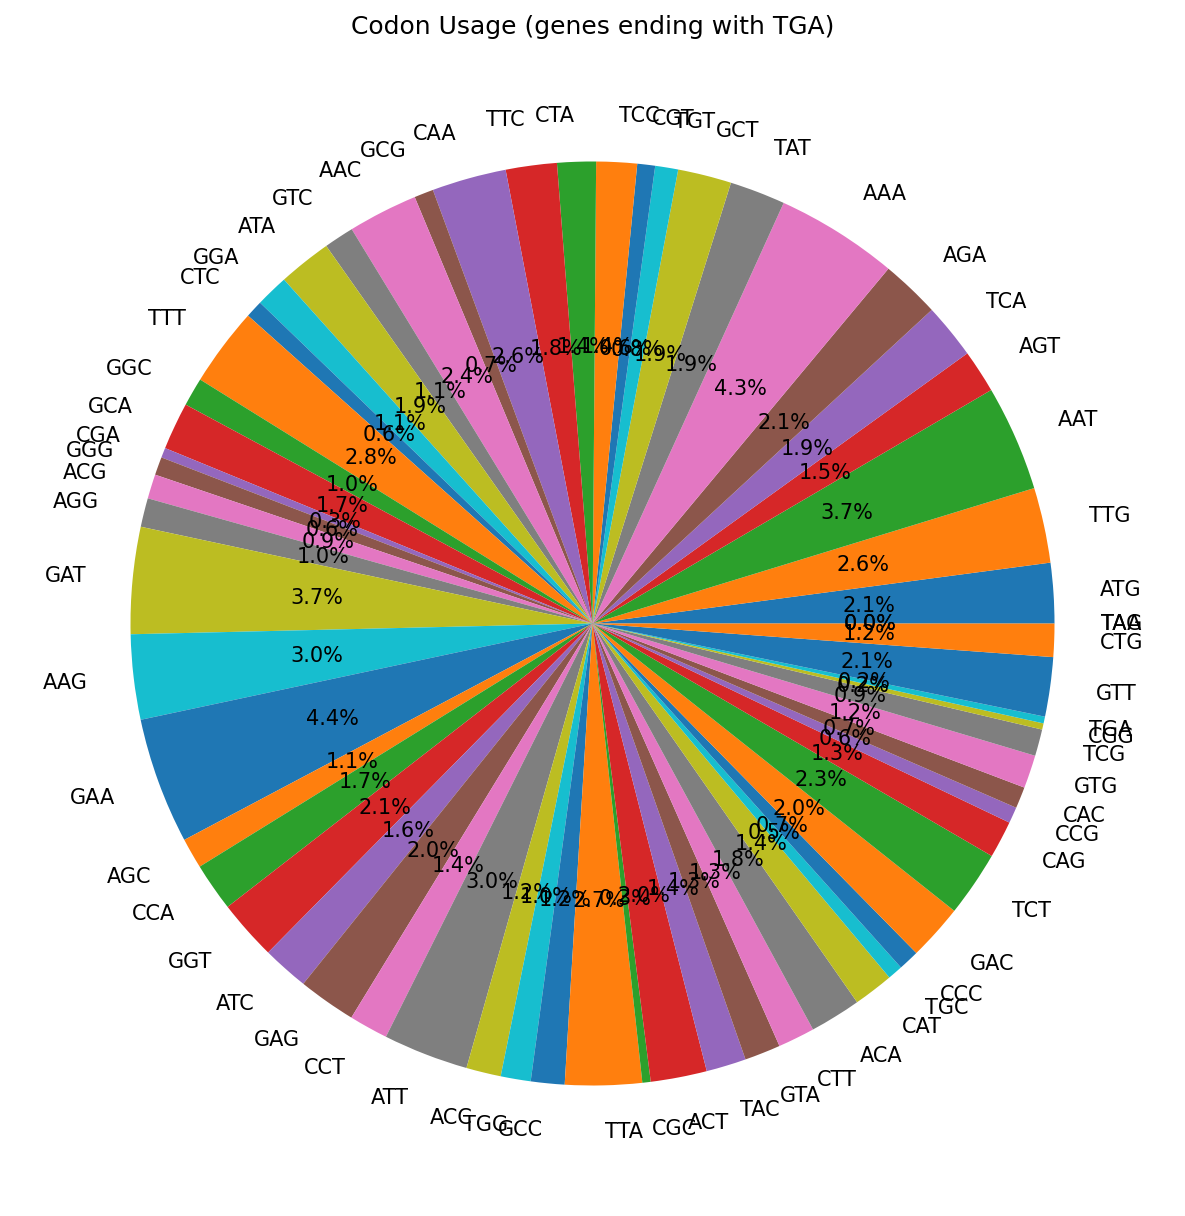
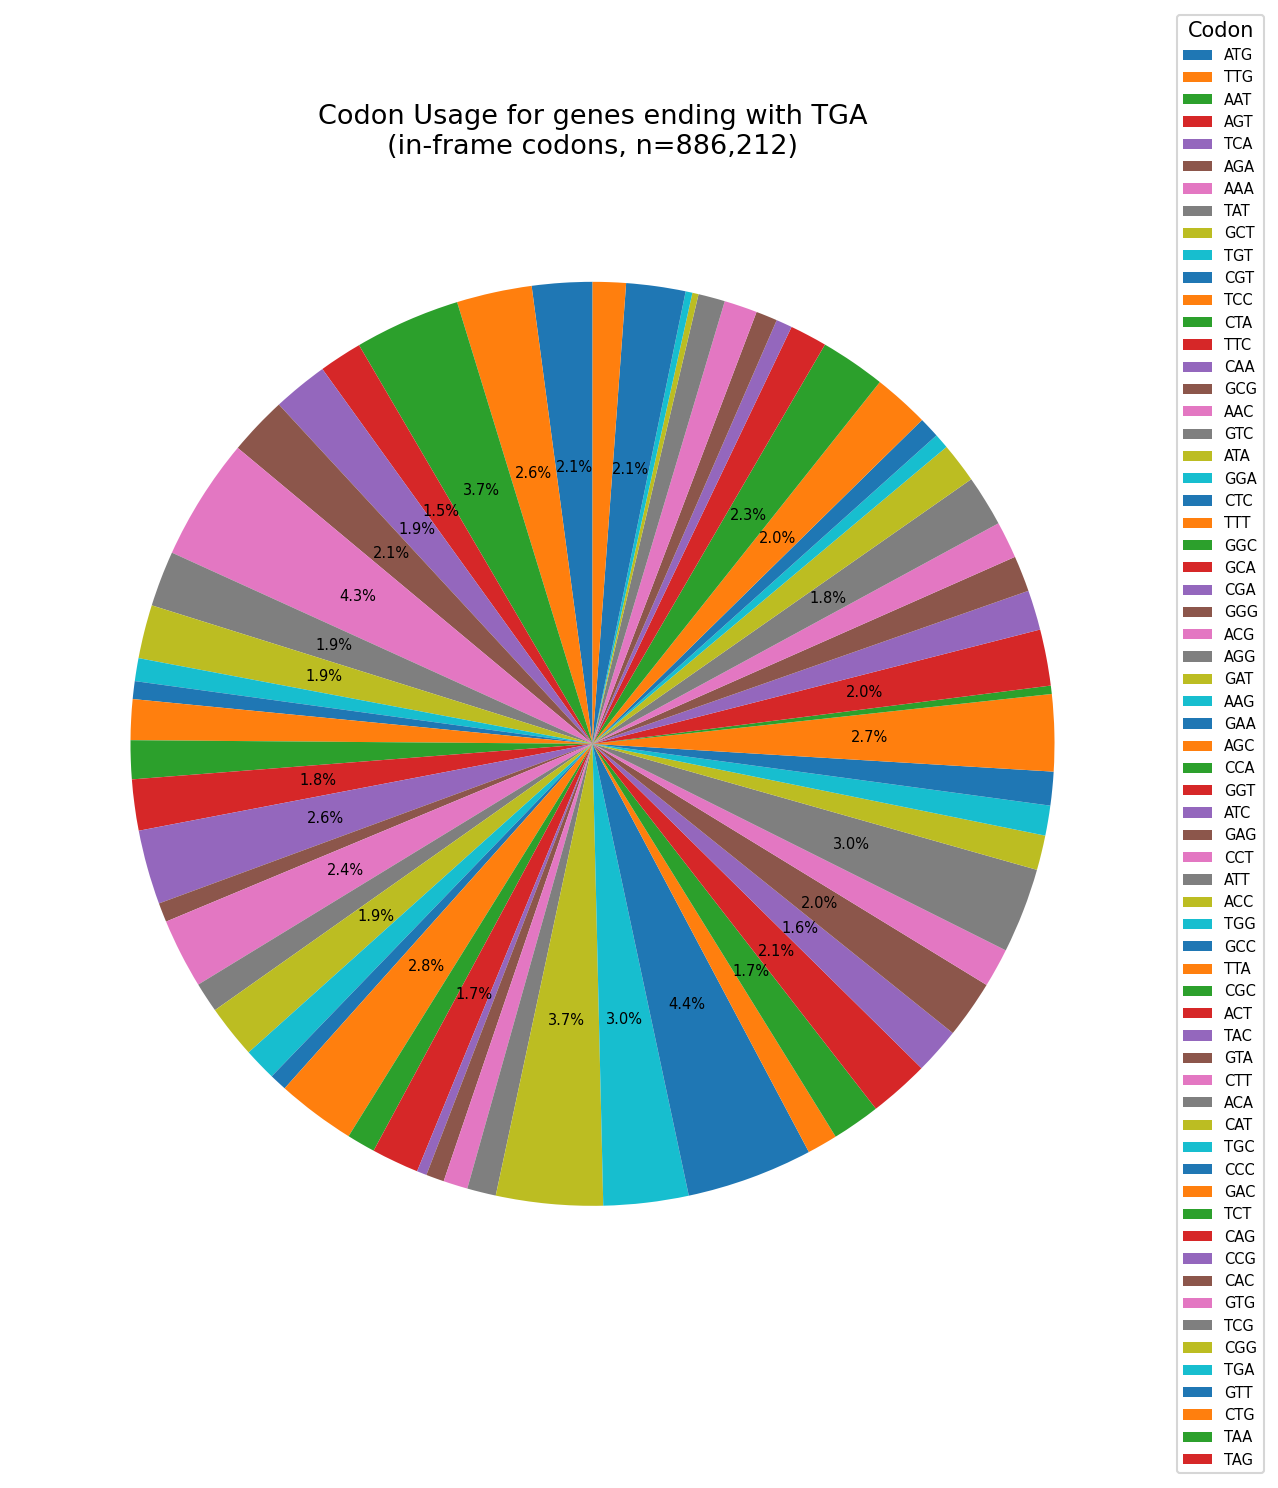
fix FASTA file path to external drive and improve pie chart readability

diff --git a/Practical7/count_codons.py b/Practical7/count_codons.py
@@ -11,7 +11,9 @@ import matplotlib.pyplot as plt
 
 SCRIPT_DIR = os.path.dirname(os.path.abspath(__file__))
 
-filename = os.path.join(SCRIPT_DIR, "Saccharomyces_cerevisiae.R64-1-1.cdna.all.fa")
+# the FASTA data file lives on the external drive, not in the repo
+DATA_DIR = "/Volumes/MOVESPEED/IBI/Week 7 Python III Working with Strings and Files"
+filename = os.path.join(DATA_DIR, "Saccharomyces_cerevisiae.R64-1-1.cdna.all.fa")
 count_file = os.path.join(SCRIPT_DIR, "codon_counts.txt")
 pie_file = os.path.join(SCRIPT_DIR, "codon_pie_chart.png")
 VALID_STOPS = ('TAA', 'TAG', 'TGA')
@@ -78,16 +80,30 @@ print(f"Counted {len(codon_counts)} unique codons.")
 print(f"Counts saved to {count_file}")
 
 # draw a pie chart of codon usage
-# there are 64 possible codons so the figure needs to be large enough
-# to keep the labels readable
+# with 64 codons, putting labels directly on each slice causes overlap,
+# so we leave the slices unlabelled and put a legend outside the chart instead
 labels = list(codon_counts.keys())
 sizes = list(codon_counts.values())
 
-plt.figure(figsize=(20, 20))
-plt.pie(sizes, labels=labels, autopct='%1.1f%%', textprops={'fontsize': 8})
-plt.title(f"Codon Usage for genes ending with {user_stop}\n"
-          f"(fraction of all in-frame codons, n={sum(sizes):,})",
-          fontsize=14)
+fig, ax = plt.subplots(figsize=(14, 10))
+wedges, texts, autotexts = ax.pie(
+    sizes,
+    autopct=lambda p: f'{p:.1f}%' if p > 1.5 else '',  # only label slices > 1.5%
+    textprops={'fontsize': 7},
+    startangle=90
+)
+ax.legend(
+    wedges, labels,
+    title="Codon",
+    loc="center left",
+    bbox_to_anchor=(1, 0, 0.5, 1),
+    fontsize=7
+)
+ax.set_title(
+    f"Codon Usage for genes ending with {user_stop}\n"
+    f"(in-frame codons, n={sum(sizes):,})",
+    fontsize=13
+)
 plt.savefig(pie_file, dpi=150, bbox_inches='tight')
 plt.close()
 

diff --git a/Practical7/stop_codons.py b/Practical7/stop_codons.py
@@ -7,7 +7,9 @@ import os
 
 SCRIPT_DIR = os.path.dirname(os.path.abspath(__file__))
 
-filename = os.path.join(SCRIPT_DIR, "Saccharomyces_cerevisiae.R64-1-1.cdna.all.fa")
+# the FASTA data file lives on the external drive, not in the repo
+DATA_DIR = "/Volumes/MOVESPEED/IBI/Week 7 Python III Working with Strings and Files"
+filename = os.path.join(DATA_DIR, "Saccharomyces_cerevisiae.R64-1-1.cdna.all.fa")
 outfile = os.path.join(SCRIPT_DIR, "stop_genes.fa")
 STOP_CODONS = ('TAA', 'TAG', 'TGA')
 
